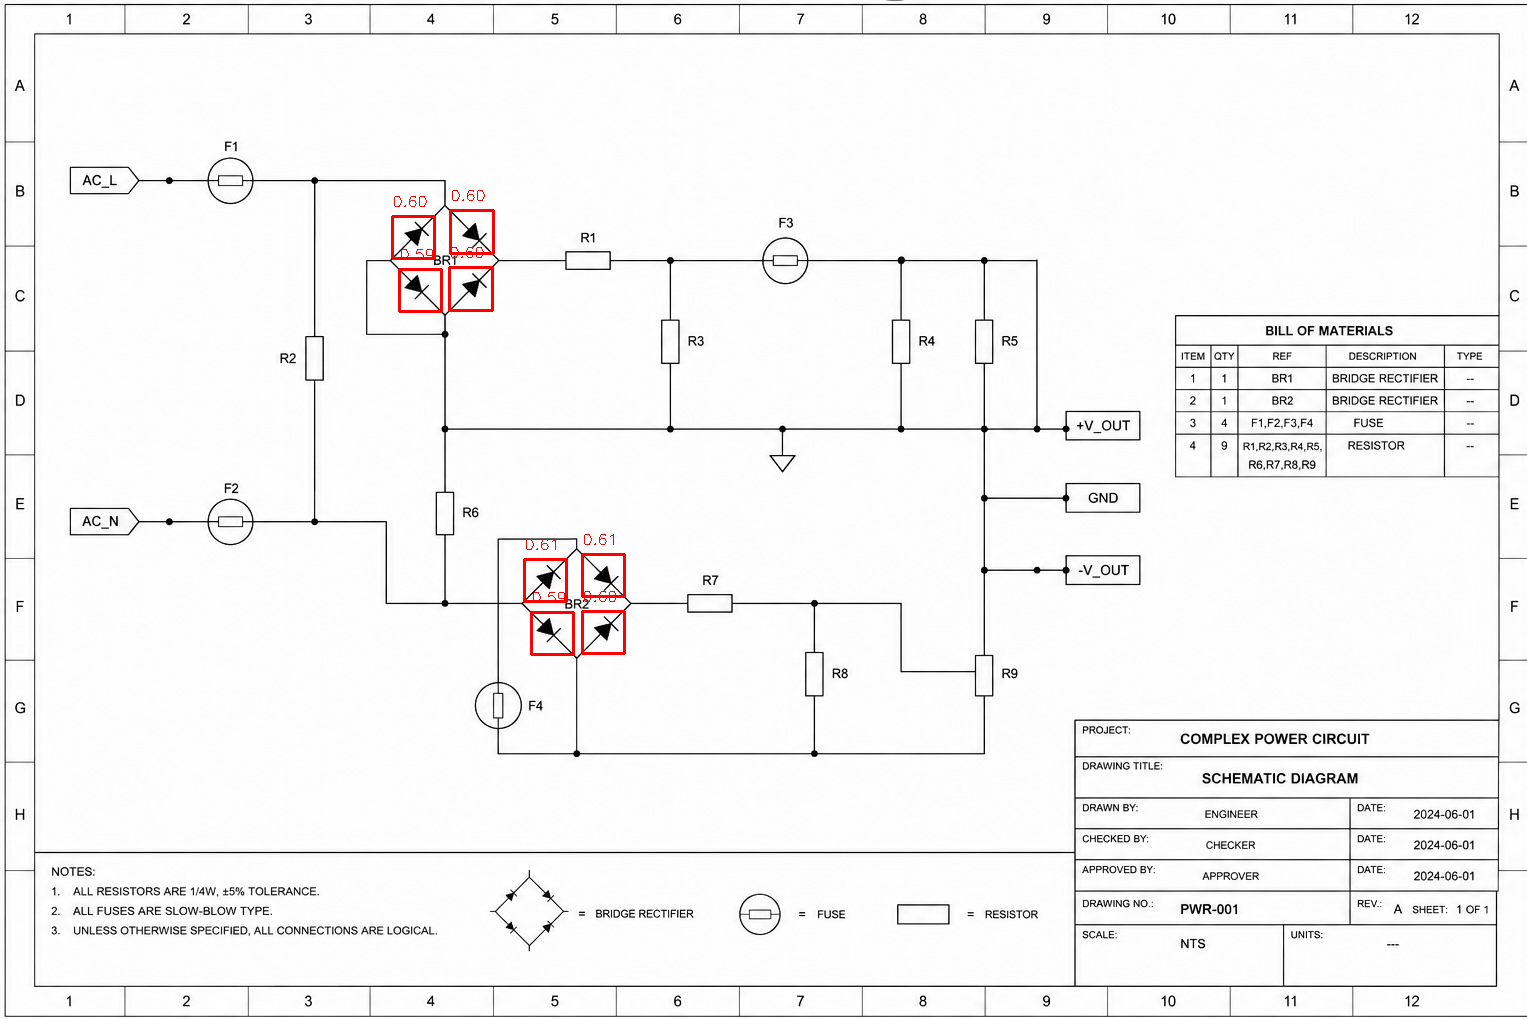
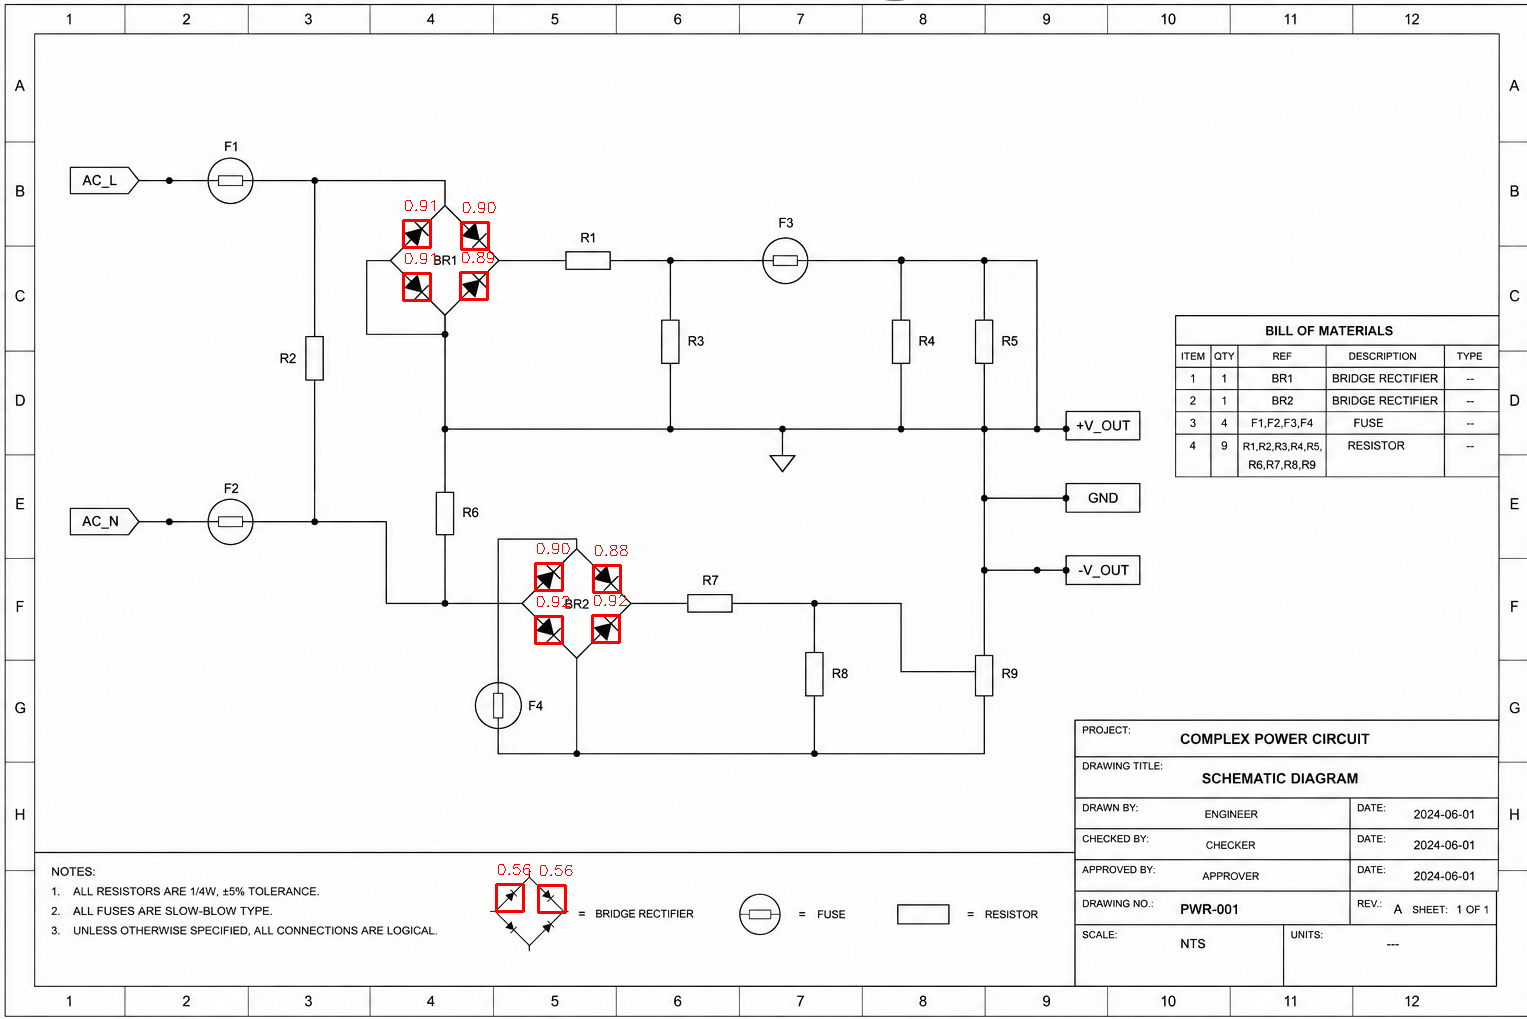
add rotation

Changed region(s): [[0.2462, 0.1825, 0.3386, 0.3042], [0.3386, 0.5172, 0.4309, 0.6389], [0.3386, 0.8518, 0.3694, 0.9127]]

diff --git a/inference.py b/inference.py
@@ -52,8 +52,8 @@ print("\nEstimated scale:", estimated_scale)
 # =========================================================
 
 SCALES = np.linspace(
-    estimated_scale * 0.7,
-    estimated_scale * 1.3,
+    estimated_scale * 0.45,
+    estimated_scale * 1.0,
     30
 )
 
@@ -68,7 +68,7 @@ ROTATIONS = [
     270
 ]
 
-THRESHOLD = 0.45
+THRESHOLD = 0.55
 
 boxes = []
 scores = []
